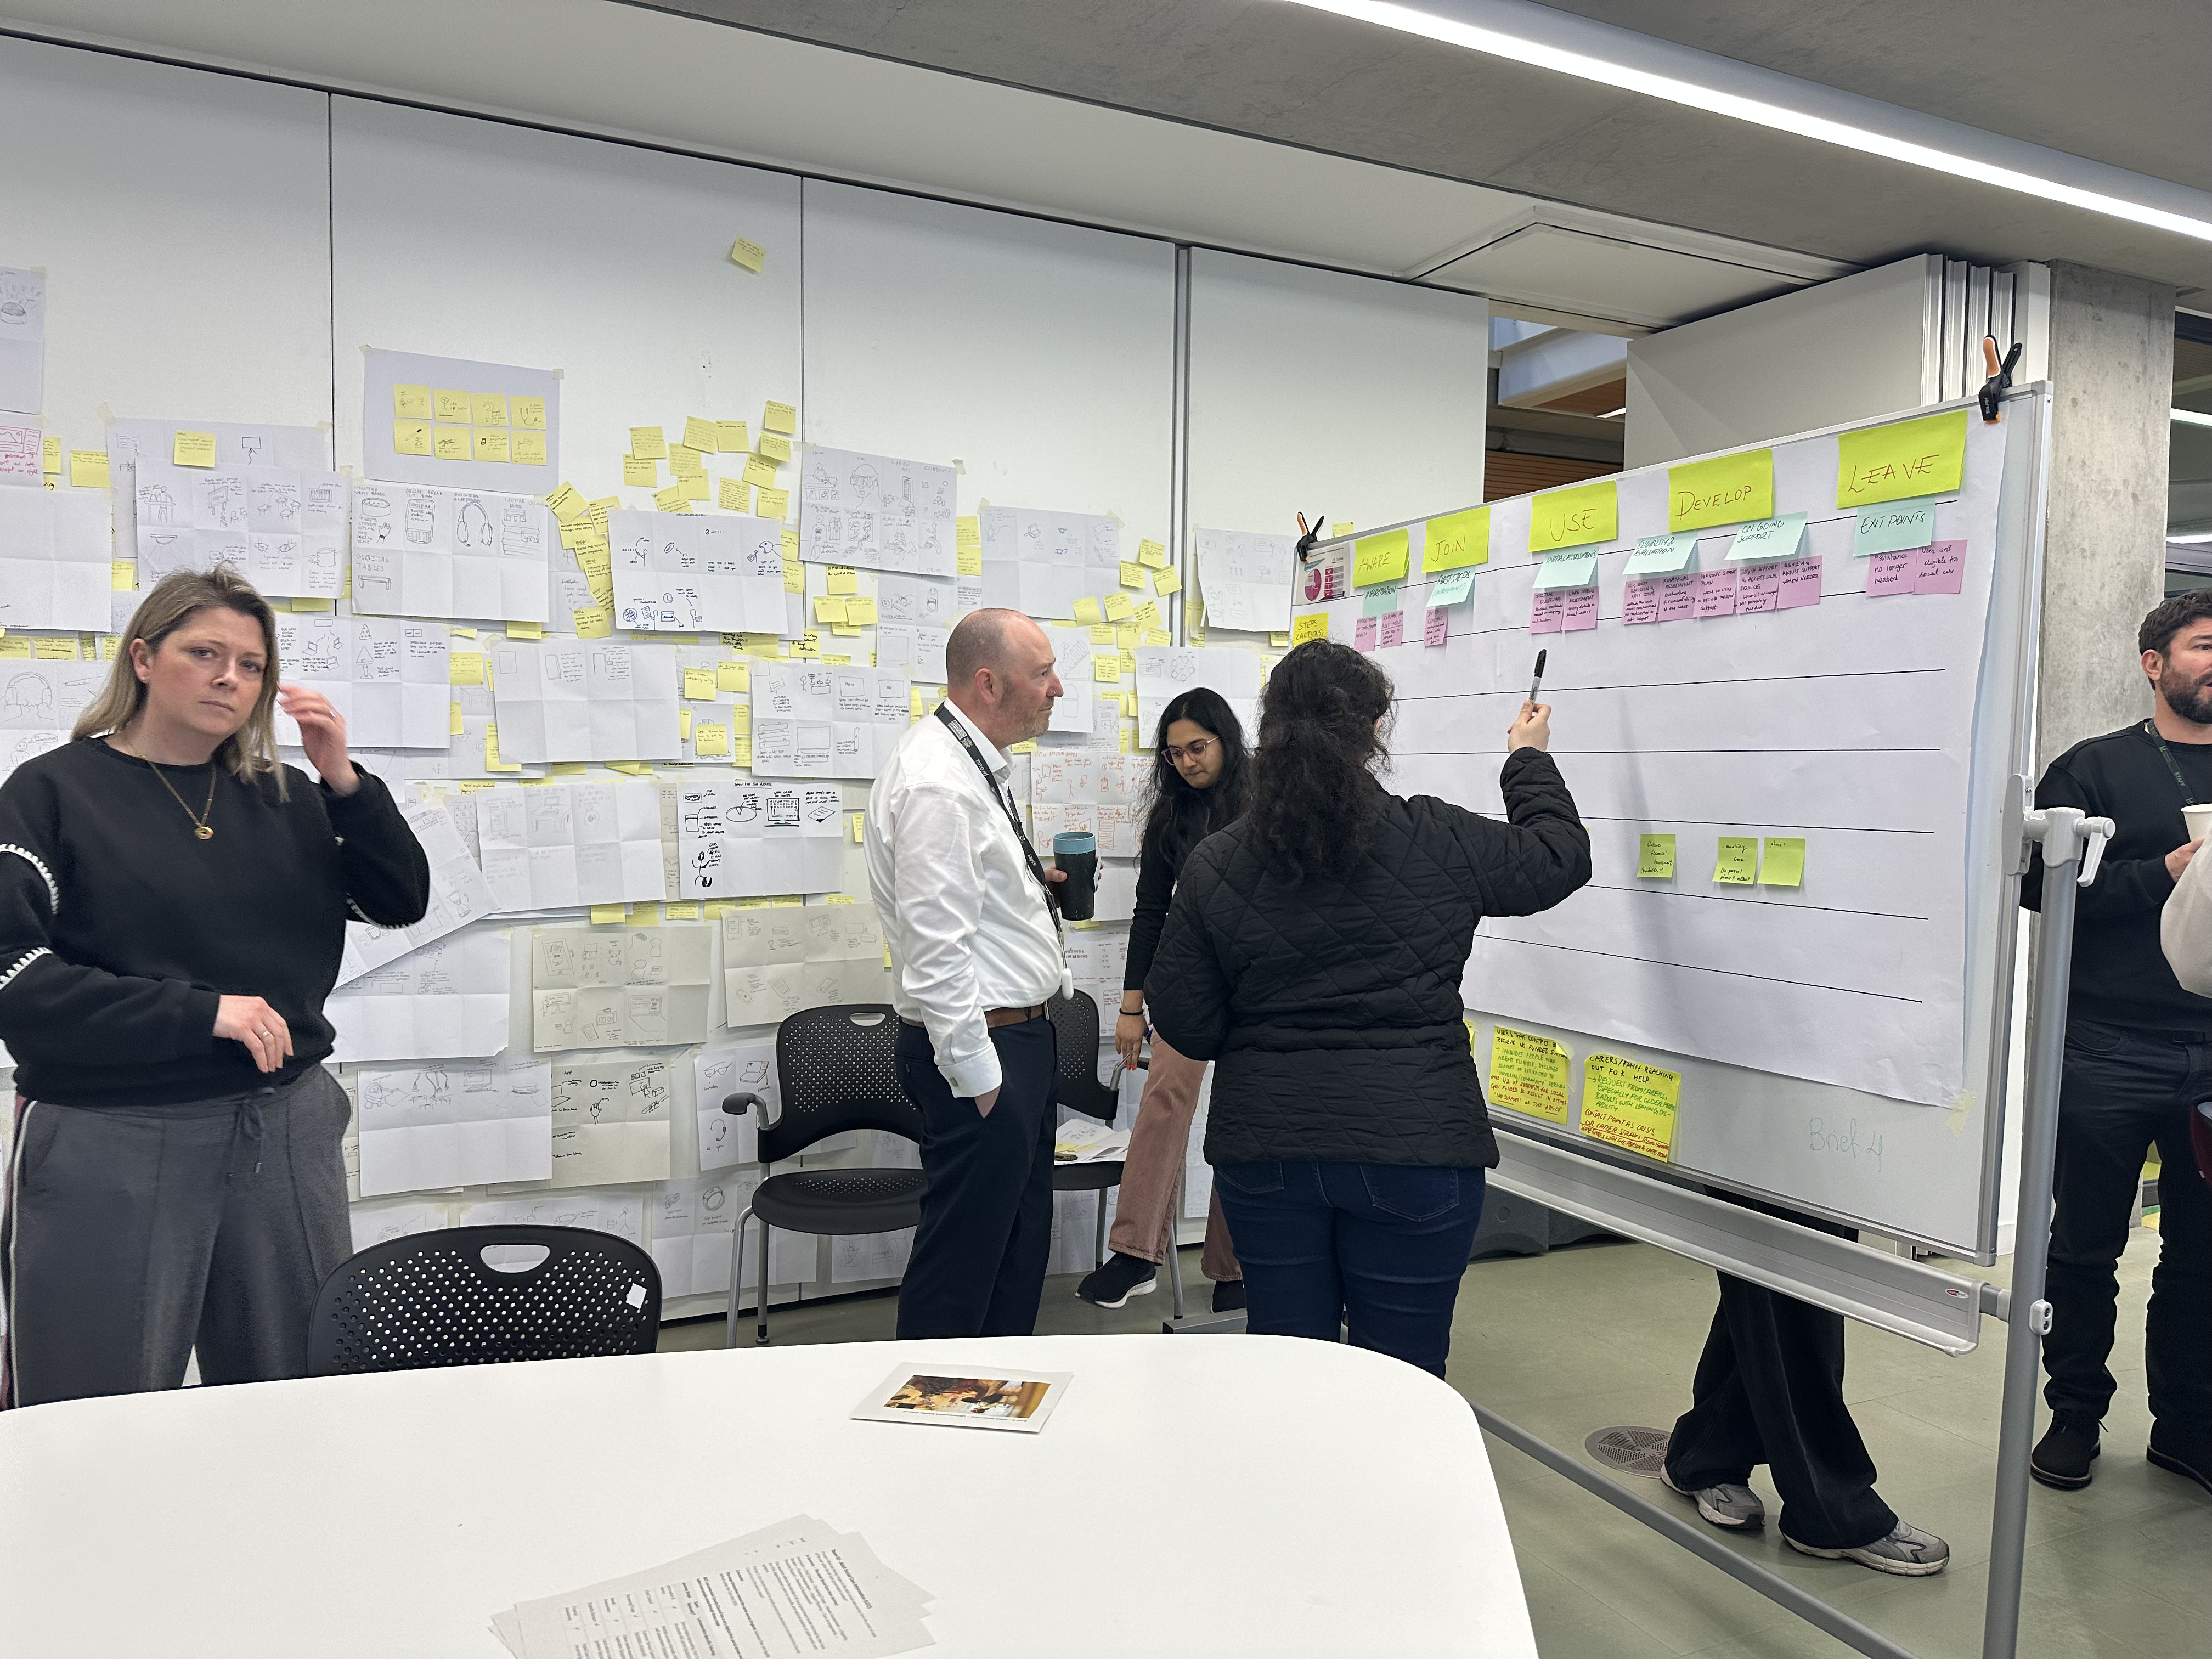
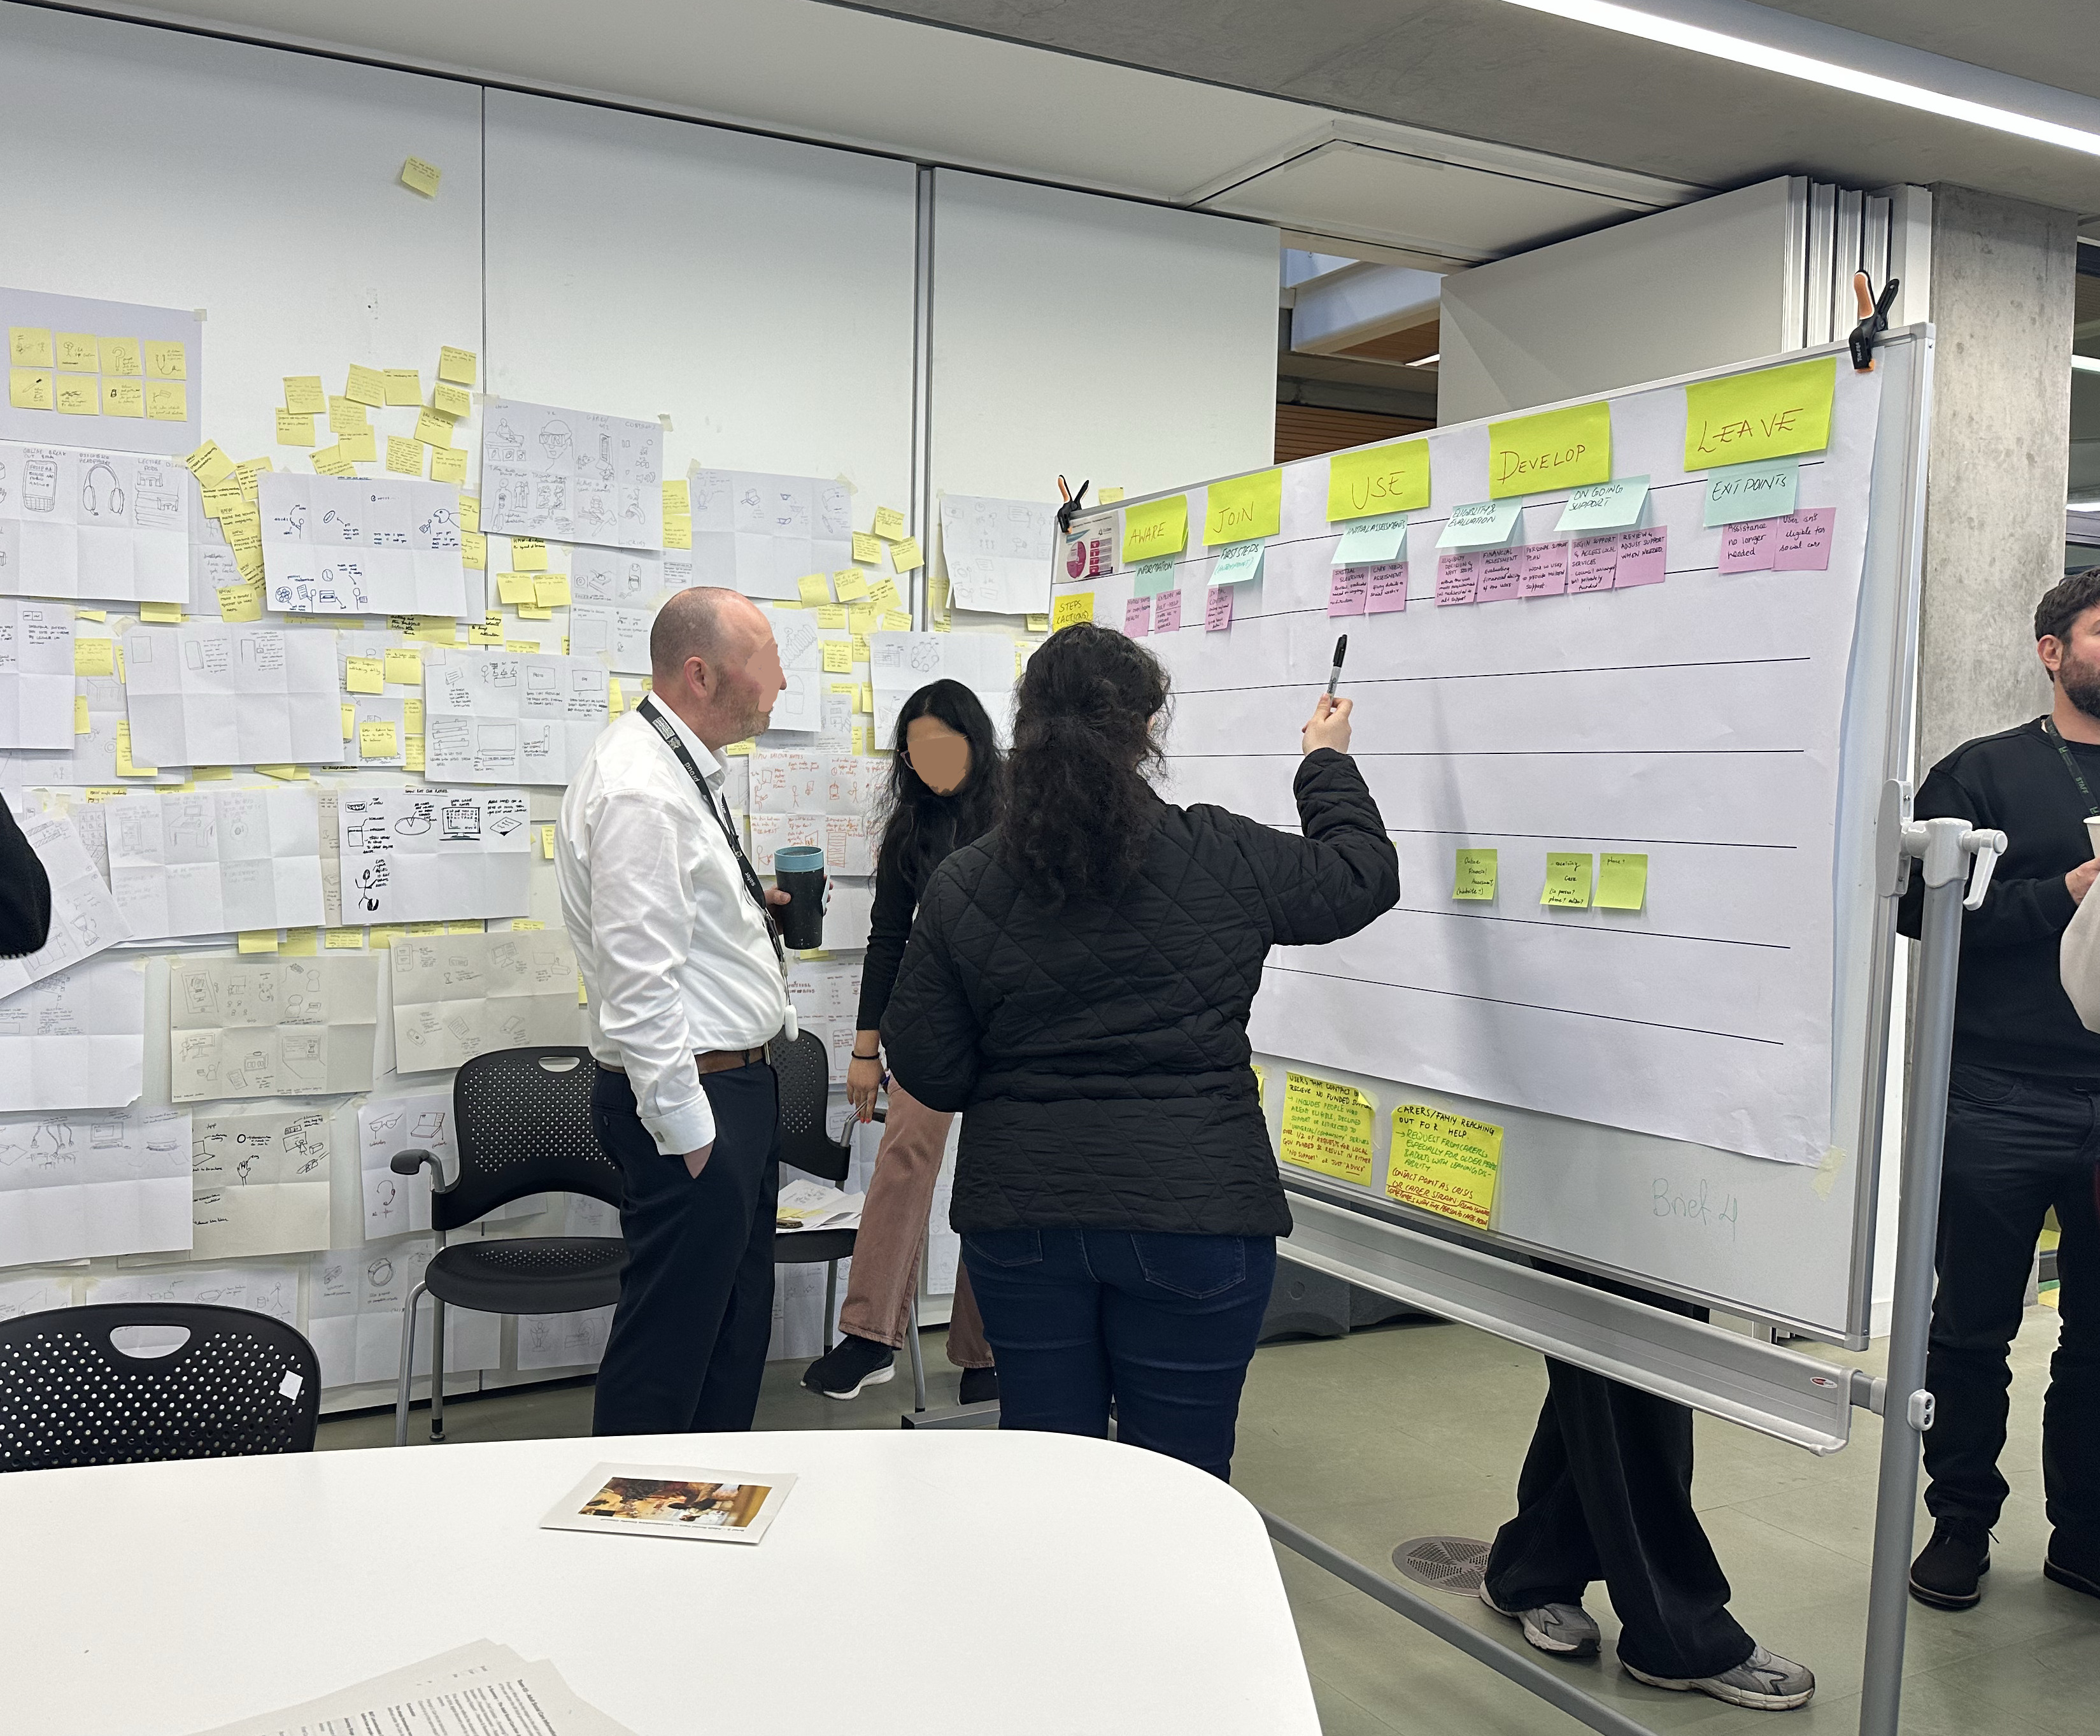
feat: update image references and navigation links for consistency in portfolio

diff --git a/portfolio-amp-assist.html b/portfolio-amp-assist.html
@@ -33,10 +33,10 @@
         <div class="collapse navbar-collapse" id="navbarSupportedContent">
             <ul class="navbar-nav ml-auto align-items-center">
                 <li class="nav-item">
-                    <a class="nav-link" href="index.html#home">Home</a>
+                    <a class="nav-link" href="index.html">Home</a>
                 </li>
                 <li class="nav-item">
-                    <a class="nav-link" href="index.html#portfolio">Back to Portfolio</a>
+                    <a class="nav-link" href="index.html">Back to Portfolio</a>
                 </li>
             </ul>
         </div>
@@ -150,7 +150,7 @@
                             </p>
                         </div>
                         <div>
-                            <img src="assets/imgs/AMP/AMP-ClientMeeting.png" alt="Question log for Amp Assist">
+                            <img src="assets/imgs/AMP/AMP-ClientMeeting-1.png" alt="Question log for Amp Assist">
                         </div>
                     </div>
                 </div>

diff --git a/portfolio-first-app-design.html b/portfolio-first-app-design.html
@@ -33,7 +33,7 @@
         <div class="collapse navbar-collapse" id="navbarSupportedContent">
             <ul class="navbar-nav ml-auto align-items-center">
                 <li class="nav-item">
-                    <a class="nav-link" href="index.html#home">Home</a>
+                    <a class="nav-link" href="index.html">Home</a>
                 </li>
                 <li class="nav-item">
                     <a class="nav-link" href="index.html#portfolio">Back to Portfolio</a>

diff --git a/portfolio-industry-project.html b/portfolio-industry-project.html
@@ -159,7 +159,7 @@
                             </p>
                         </div>
                         <div>
-                            <img class="sky-img" src="assets/imgs/IP/IP_ClientMeeting.png" alt="Client session">
+                            <img class="sky-img" src="assets/imgs/IP/IP_ClientMeeting_1.png" alt="Client session">
                         </div>
                     </div>
                 </div>